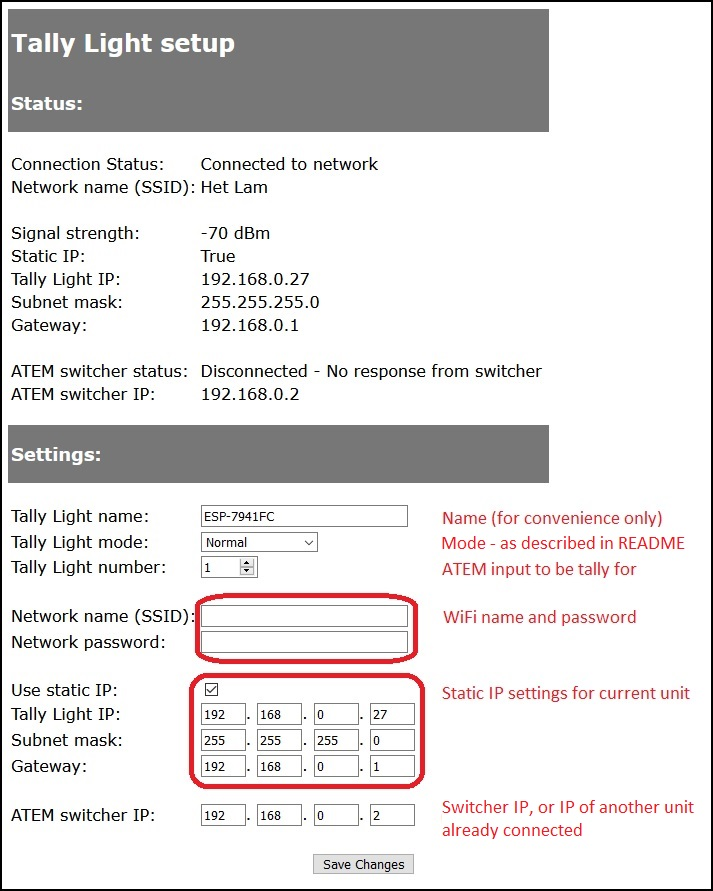
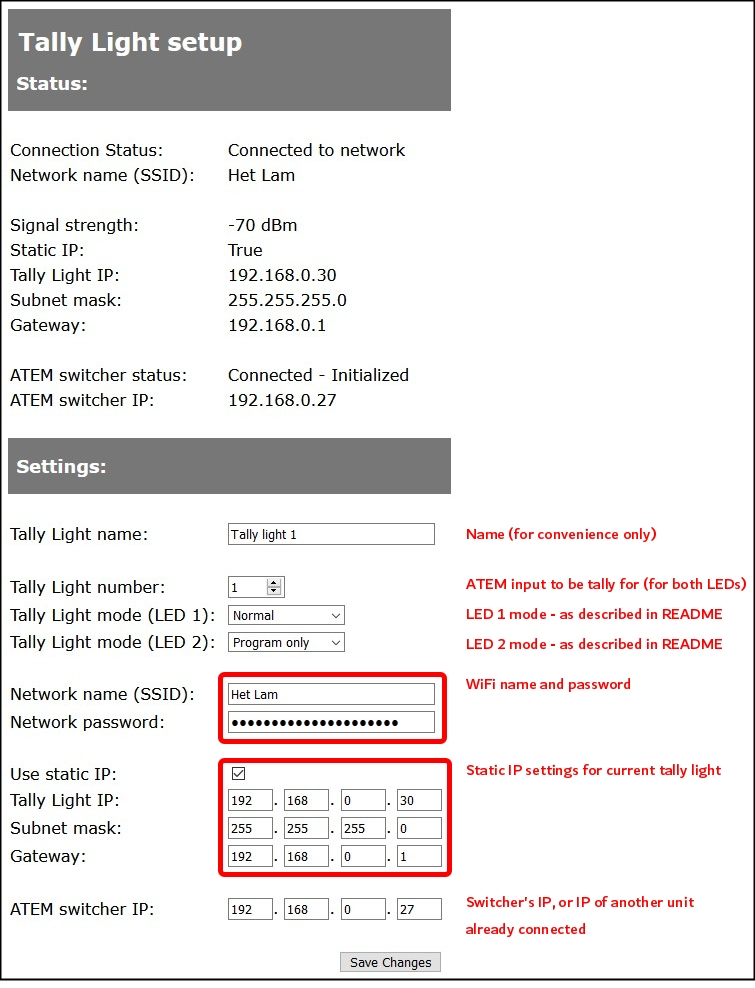
HTML update

Changed region(s): [[0.0, 0.0, 1.0, 1.0], [0.0, 0.9091, 0.216, 0.9394]]

diff --git a/settings.html b/settings.html
@@ -16,21 +16,17 @@
         var myLength = target.value.length;
         if (myLength >= maxLength) {
             var next = target.nextElementSibling;
-            while (next != null) {
+            if (next != null) {
                 if (next.className.includes("IP")) {
                     next.focus();
-                    break;
                 }
-                next = next.nextElementSibling
             }
         } else if (myLength == 0) {
             var previous = target.previousElementSibling;
-            while (previous != null) {
+            if (previous != null) {
                 if (previous.className.includes("IP")) {
                     previous.focus();
-                    break;
                 }
-                previous = previous.previousElementSibling;
             }
         }
     }
@@ -69,81 +65,91 @@
 </script>
 
 <body style="font-family:Verdana; white-space:nowrap;" onload="load()">
-    <table bgcolor="#777777" border="0" width="100%" cellpadding="1" style=color:#ffffff;font-size:12px;">
-        <tr>
-            <td>
-                <h1>Tally Light setup</h1>
+    <table cellpadding="2" style="width:100%">
+        <tr bgcolor="#777777" style="color:#ffffff;font-size:12px;">
+            <td colspan="3">
+                <h1>&nbsp;Tally Light setup</h1>
+                <h2>&nbsp;Status:</h2>
             </td>
         </tr>
         <tr>
-            <td>
-                <h2>Status:</h2>
-            </td>
+            <td><br></td>
+            <td></td> 
+            <td style="width: 100%;"></td>
         </tr>
-    </table><br>
-
-    <table>
         <tr>
             <td>Connection Status:</td>
-            <td>@</td>
+            <td colspan="2">@</td>
         </tr>
         <tr>
             <td>Network name (SSID):</td>
-            <td>@</td>
+            <td colspan="2">@</td>
         </tr>
         <tr>
             <td><br></td>
         </tr>
         <tr>
             <td>Signal strength:</td>
-            <td>@</td>
+            <td colspan="2">@ dBm</td>
         </tr>
         <tr>
             <td>Static IP:</td>
-            <td>@</td>
+            <td colspan="2">@</td>
         </tr>
         <tr>
             <td>Tally Light IP:</td>
-            <td>@</td>
+            <td colspan="2">@</td>
         </tr>
         <tr>
             <td>Subnet mask: </td>
-            <td>@</td>
+            <td colspan="2">@</td>
         </tr>
         <tr>
             <td>Gateway: </td>
-            <td>@</td>
+            <td colspan="2">@</td>
         </tr>
         <tr>
             <td><br></td>
         </tr>
         <tr>
             <td>ATEM switcher status:</td>
-            <td>@</td>
+            <td colspan="2">@</td>
         </tr>
         <tr>
             <td>ATEM switcher IP:</td>
-            <td>@</td>
+            <td colspan="2">@</td>
         </tr>
-    </table><br>
-
-    <table bgcolor="#777777" border="0" width="100%" cellpadding="1" style="color:#ffffff;font-size:12px;">
-        <td>
-            <h2>Settings:</h2>
-        </td>
+        <tr>
+            <td><br></td>
         </tr>
-    </table><br>
-
-    <table>
+        <tr bgcolor="#777777" style="color:#ffffff;font-size:12px;">
+            <td colspan="3">
+                <h2>&nbsp;Settings:</h2>
+            </td>
+        </tr>
+        <tr>
+            <td><br></td>
+        </tr>
         <form action="/save" method="post">
             <tr>
                 <td>Tally Light name: </td>
-                <td><input type="text" size="30" maxlength="30" name="tName" value="@" required>
+                <td>
+                    <input type="text" size="30" maxlength="30" name="tName" value="@" required />
                 </td>
             </tr>
             <tr>
-                <td>Tally Light mode: </td>
-                <td><select name="tMode">
+                <td><br></td>
+            </tr>
+            <tr>
+                <td>Tally Light number: </td>
+                <td>
+                    <input type="number" size="5" min="1" max="21" name="tNo" value="@" required />
+                </td>
+            </tr>
+            <tr>
+                <td>Tally Light mode (LED 1):&nbsp;</td>
+                <td>
+                    <select name="tModeLED1">
                         <option value="@">Normal</option>
                         <option value="@">Preview stay on</option>
                         <option value="@">Program only</option>
@@ -151,8 +157,13 @@
                 </td>
             </tr>
             <tr>
-                <td>Tally Light number: </td>
-                <td><input type="number" size="5" min="1" max="21" name="tNo" value="@" required>
+                <td>Tally Light mode (LED 2):</td>
+                <td>
+                    <select name="tModeLED2">
+                        <option value="@">Normal</option>
+                        <option value="@">Preview stay on</option>
+                        <option value="@">Program only</option>
+                    </select>
                 </td>
             </tr>
             <tr>
@@ -160,12 +171,14 @@
             </tr>
             <tr>
                 <td>Network name (SSID): </td>
-                <td><input type="text" size="30" maxlength="30" name="ssid" value="@" required>
+                <td>
+                    <input type="text" size="30" maxlength="30" name="ssid" value="@" required />
                 </td>
             </tr>
             <tr>
                 <td>Network password: </td>
-                <td><input type="password" size="30" maxlength="30" name="pwd" pattern="^$|.{8,32}" value="@">
+                <td>
+                    <input type="password" size="30" maxlength="30" name="pwd" pattern="^$|.{8,32}" value="@" />
                 </td>
             </tr>
             <tr>
@@ -176,43 +189,46 @@
                 <td>
                     <input id="staticIPHidden" type="hidden" name="staticIP" value="false" />
                     <input id="staticIP" type="checkbox" name="staticIP" value="true" onchange="toggleStaticIPFields()"
-                        @checked />
+                        @ />
                 </td>
             </tr>
             <tr>
                 <td>Tally Light IP: </td>
-                <td><input class="tIP" type="text" size="3" maxlength="3" name="tIP1" pattern="\d{0,3}" value="@"
-                        required>.
+                <td>
+                    <input class="tIP" type="text" size="3" maxlength="3" name="tIP1" pattern="\d{0,3}" value="@"
+                        required />.
                     <input class="tIP" type="text" size="3" maxlength="3" name="tIP2" pattern="\d{0,3}" value="@"
-                        required>.
+                        required />.
                     <input class="tIP" type="text" size="3" maxlength="3" name="tIP3" pattern="\d{0,3}" value="@"
-                        required>.
+                        required />.
                     <input class="tIP" type="text" size="3" maxlength="3" name="tIP4" pattern="\d{0,3}" value="@"
-                        required>
+                        required />
                 </td>
             </tr>
             <tr>
                 <td>Subnet mask: </td>
-                <td><input class="tIP" type="text" size="3" maxlength="3" name="mask1" pattern="\d{0,3}" value="@"
-                        required>.
+                <td>
+                    <input class="tIP" type="text" size="3" maxlength="3" name="mask1" pattern="\d{0,3}" value="@"
+                        required />.
                     <input class="tIP" type="text" size="3" maxlength="3" name="mask2" pattern="\d{0,3}" value="@"
-                        required>.
+                        required />.
                     <input class="tIP" type="text" size="3" maxlength="3" name="mask3" pattern="\d{0,3}" value="@"
-                        required>.
+                        required />.
                     <input class="tIP" type="text" size="3" maxlength="3" name="mask4" pattern="\d{0,3}" value="@"
-                        required>
+                        required />
                 </td>
             </tr>
             <tr>
                 <td>Gateway: </td>
-                <td><input class="tIP" type="text" size="3" maxlength="3" name="gate1" pattern="\d{0,3}" value="@"
-                        required>.
+                <td>
+                    <input class="tIP" type="text" size="3" maxlength="3" name="gate1" pattern="\d{0,3}" value="@"
+                        required />.
                     <input class="tIP" type="text" size="3" maxlength="3" name="gate2" pattern="\d{0,3}" value="@"
-                        required>.
+                        required />.
                     <input class="tIP" type="text" size="3" maxlength="3" name="gate3" pattern="\d{0,3}" value="@"
-                        required>.
+                        required />.
                     <input class="tIP" type="text" size="3" maxlength="3" name="gate4" pattern="\d{0,3}" value="@"
-                        required>
+                        required />
                 </td>
             </tr>
             <tr>
@@ -220,14 +236,15 @@
             </tr>
             <tr>
                 <td>ATEM switcher IP: </td>
-                <td><input class="IP" type="text" size="3" maxlength="3" name="aIP1" pattern="\d{0,3}" value="@"
-                        required>.
+                <td>
+                    <input class="IP" type="text" size="3" maxlength="3" name="aIP1" pattern="\d{0,3}" value="@"
+                        required />.
                     <input class="IP" type="text" size="3" maxlength="3" name="aIP2" pattern="\d{0,3}" value="@"
-                        required>.
+                        required />.
                     <input class="IP" type="text" size="3" maxlength="3" name="aIP3" pattern="\d{0,3}" value="@"
-                        required>.
+                        required />.
                     <input class="IP" type="text" size="3" maxlength="3" name="aIP4" pattern="\d{0,3}" value="@"
-                        required>
+                        required />
             </tr>
             <tr>
                 <td><br></td>
